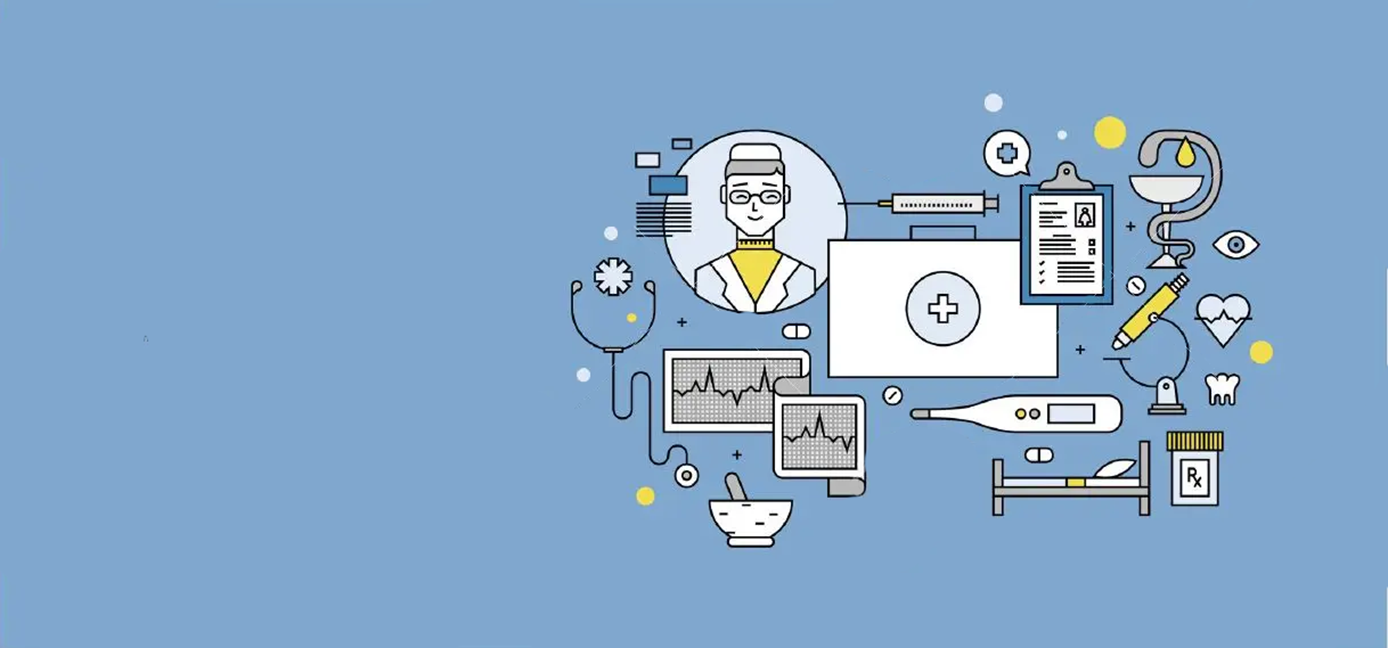
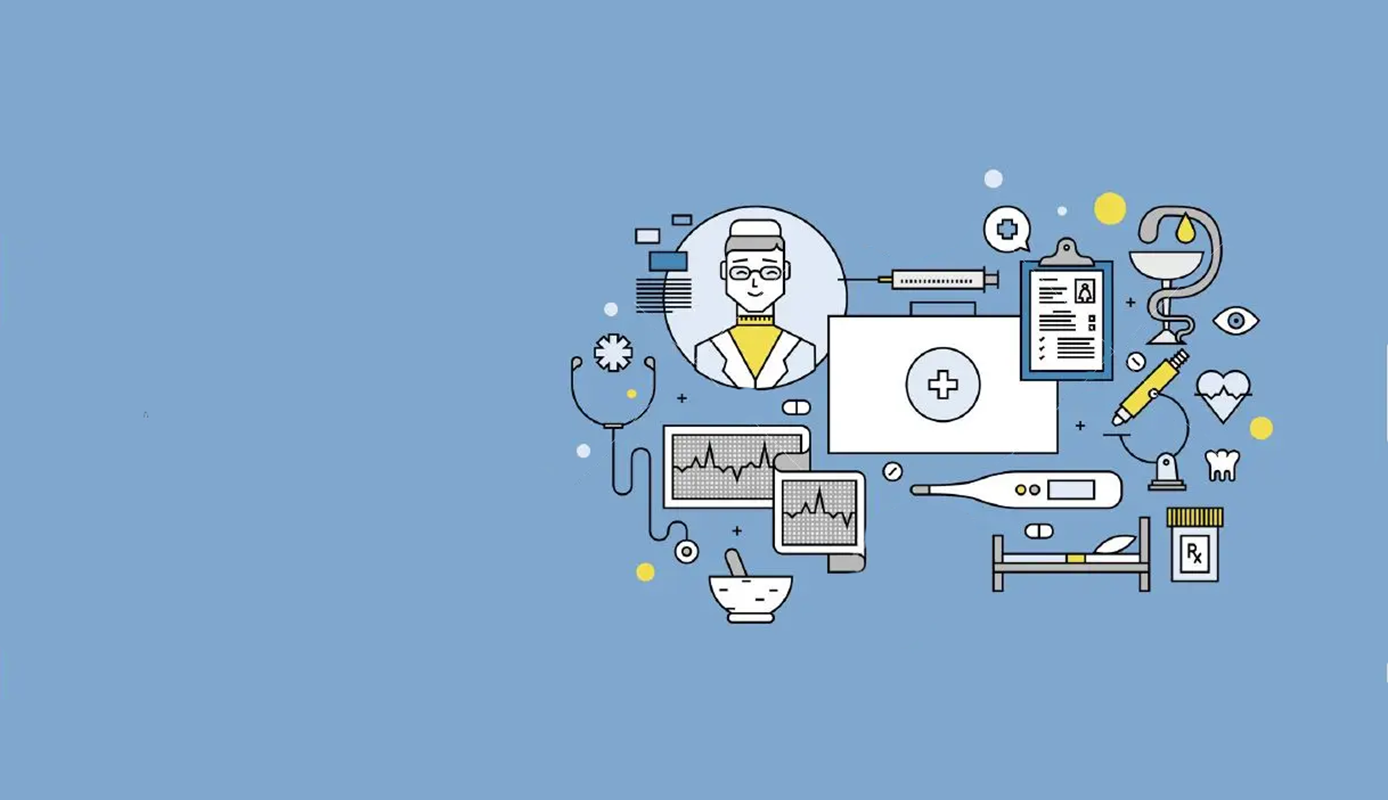
리액트 메인페이지 변경

Changed region(s): [[0.4027, 0.1543, 0.9294, 0.8642], [0.8984, 0.5247, 0.9294, 0.5556]]

diff --git a/springboot/frontend/src/App.js b/springboot/frontend/src/App.js
@@ -3,7 +3,7 @@ import "./App.css";
 import Header from "./component/header";
 import UserList from "./component/UserList";
 import Carousel from "react-bootstrap/Carousel";
-import mockup from "./img/web_app_mockup2.png";
+import mockup from "./img/main2.png";
 import mainImg from "./img/main0.png";
 
 function App() {
@@ -90,27 +90,27 @@ function App() {
           <img src={mainImg} className="mainImg" />
         </div>
         <div className="text">
-          <h2>Medical Platform</h2>
+          <h2>HeyDr. SpringBoot</h2>
           <br></br>
           <span>
-            Lorem Ipsum is simply dummy text of
-            <br />
-            the printing and typesetting industry.
+            많은 기능은 스프링부트로 구현 하였습니다.
+            <br />밑 쪽 버튼을 통해 이동 할 수 있습니다.
           </span>
           <br></br>
-          <button className="btn2">Go SpringBoot</button>
+          <button className="btn2">Go to SpringBoot</button>
         </div>
       </div>
       <div className="inner bg-blue">
         <div className="innerImg">
           <img src={mockup} className="menuImg" />
         </div>
-        <div className="text">
-          <span>
-            Lorem Ipsum is simply dummy text of
-            <br />
-            the printing and typesetting industry.
-          </span>
+        <div className="button2">
+          <button type="button" className="btn3">
+            App Store
+          </button>
+          <button type="button" className=" btn3">
+            Google Play
+          </button>
         </div>
       </div>
       <div className="inner bg-pink">3</div>

diff --git a/springboot/frontend/src/component/header.js b/springboot/frontend/src/component/header.js
@@ -4,7 +4,7 @@ import Nav from "react-bootstrap/Nav";
 import Button from "react-bootstrap/Button";
 import Container from "react-bootstrap/Container";
 import "./css/header.css";
-import logo from "../logo.svg";
+import logo from "../img/chicken.png";
 
 function Header() {
   return (
@@ -17,7 +17,7 @@ function Header() {
             height="30"
             className="d-inline-block align-top"
           />
-          React Bootstrap
+          HeyDr.
         </Navbar.Brand>
         <Navbar variant="dark">
           <Nav className="me-auto">

diff --git a/springboot/frontend/src/App.css b/springboot/frontend/src/App.css
@@ -39,6 +39,13 @@ body {
   color: white;
 }
 
+.button2 {
+  position: absolute;
+  top: 22%;
+  left: 50%;
+  transform: translate(-50%, 0%);
+}
+
 p .maintext {
   padding-bottom: 20% !important;
 }
@@ -71,4 +78,15 @@ p .maintext {
   color: #80a7ce;
   border: solid 1px #ffffff;
   border-radius: 20px;
+}
+
+.btn3 {
+  width: 200px;
+  height: 64px;
+  color: #3478f5;
+  font-weight: bolder;
+  border: solid 1px #3478f5;
+  margin: 0 16px;
+  border-radius: 20px;
+  background-color: white;
 }
